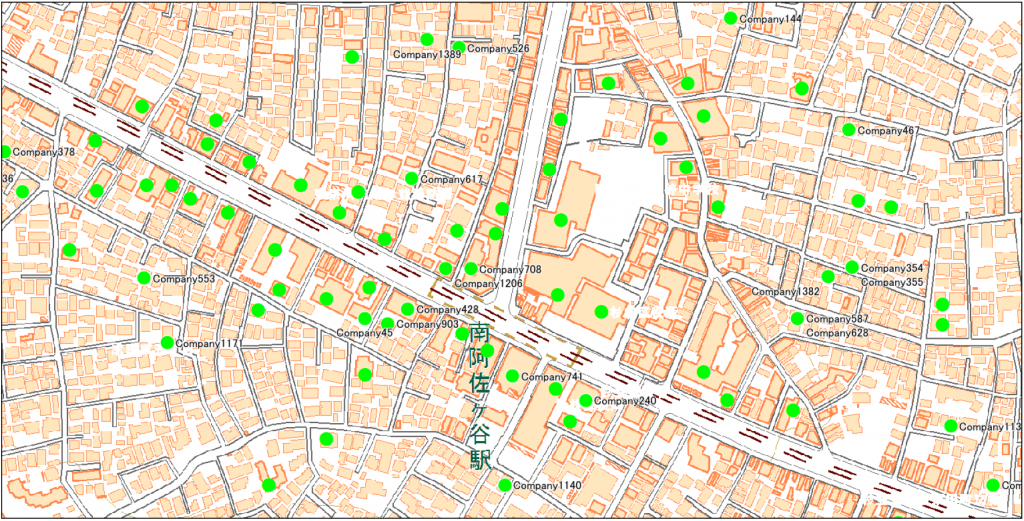
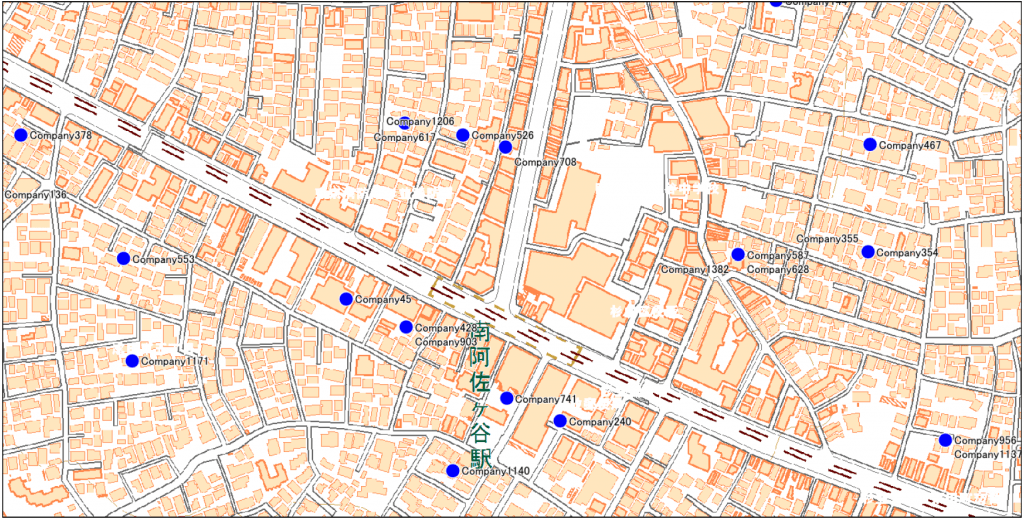
fix

diff --git a/location-passport.html b/location-passport.html
@@ -32,7 +32,7 @@
 					<a href="products.html">製品 / サービス</a>
 				</li>
 				<li class="active">
-					<a href="locatioin-passport.html">Location Passport</a>
+					<a href="location-passport.html">Location Passport</a>
 				</li>
 			</ol>
 			<p class="mar_top40">お手持ちの顧客リストの件数はどのくらいありますか？<br>10件や20件なら、地理情報システム（GIS）で地図上に一つずつ登録して活用することも難しくないでしょう。<br>でも、1000件ならどうでしょうか？<br>ちょっとした顧客データなら、100万件を超えることもざらです。<br>こんな時は、手持ちリストの住所の文字列から自動的に緯度経度を対応させ、GISで活用可能な位置情報に加工する「ジオコーディング」が便利です。<br>「Location Passport」を活用すれば、従来は専門的な知識が必要でなんとなく難しいと敬遠していたジオコーディング処理が、手軽にパソコン上で実現できます</p>
@@ -60,11 +60,11 @@
 
 			<h4 class="mar_top40">高精度住所辞書でジオコーディングした例</h4>
 			<p>おおむね建物に対応したピンポイントのジオコーディングが可能です。</p>
-			<img src="inc/img/products/jusho_1.png" alt="高精度住所辞書" width="800" />
+			<img src="inc/img/products/jusho_1.png" alt="標準住所辞書" width="800" />
 
 			<h4 class="mar_top40">標準辞書でジオコーディングした例</h4>
 			<p>街区の代表点にジオコーディングされますので、同一街区のポイントは重なって表示されます。</p>
-			<img src="inc/img/products/jusho_2.png" alt="標準住所辞書" width="800" />
+			<img src="inc/img/products/jusho_2.png" alt="高精度住所辞書" width="800" />
 
 			<h4 class="mar_top40">KML形式でエクスポートして利用可能</h4>
 			<p>ジオコーディング結果はKML形式で保存可能です。<br>専用のGISアプリがなくても、Google Earthで結果を確認することができます。</p>

diff --git a/index.html b/index.html
@@ -111,10 +111,10 @@
 					<a href="miraishoken.html">
 						<div class="product-block">
 							<div class="block-title">
-								<h3>未来商圏</h3>
+								<h3>未来商圏レポート</h3>
 							</div>
 							<hr />
-							<p>変化の激しい都市の実情を反映した商圏レポートのため、ビジネスチャンスを逃さず、最適のタイミングでのビジネス展開が実現します。</p>
+							<p>将来推計人口に基づいた商圏レポートをオンラインで作成するサービスです。手軽に未来の立地評価レポートが入手できます。</p>
 						</div>
 						<div class="product-button">
 							<span>詳しくみる</span>
@@ -130,6 +130,15 @@
 				<h2 class="eng-title news">NEWS RELEASE</h2>
 			</div>
 			<ul class="news-area">
+				<li class="news-item">
+					<div class="date">2019.01.24</div>
+					<div class="content">
+						<a href="javascript:;">
+							<span>将来の商圏分析を高精度に実現できる人口統計データ 「未来統計」2019年版を1月24日より販売開始</span>
+							<i class="fa fa-angle-right fa-fw"></i>
+						</a>
+					</div>
+				</li>
 				<li class="news-item">
 					<div class="date">2018.06.05</div>
 					<div class="content">

diff --git a/act-terms.html b/act-terms.html
@@ -100,14 +100,14 @@
 			</ol>
 
 			<h4 class="terms-title">第10条（有効期間）</h4>
-			<p class="pad_lt20">本規約の有効期間は、未来統計契約期間中とします。</p>
+			<p class="pad_lt20">本規約の有効期間は、未来商圏レポート契約期間中とします。</p>
 
 			<h4 class="terms-title">第11条（協議）</h4>
 			<p class="pad_lt20">本規約に定めのない事項または本規約もしくは利用契約の履行の解釈もしくは履行にいて疑義を生じた場合には、サービス利用者とチリビジとACTは誠意をもって協議し解決を図るものとします。</p>
 
 			<h4 class="terms-title">第12条（管轄裁判所）</h4>
 			<p class="pad_lt20">本規約に関する訴訟については、東京地方裁判所を第一審の合意管轄裁判所とします。</p>
-			<p class="pad_lt20">［付則］この利用規約は2016年1月1日より効力を発するものとします。</p>
+			<p class="pad_lt20">［付則］この利用規約は2019年3月1日より効力を発するものとします。</p>
 
 		</div>
 

diff --git a/inc/js/base.js b/inc/js/base.js
@@ -31,7 +31,7 @@ function menuHighlight(){
 	var menuList=document.querySelectorAll('nav li');
 	if(nowPath==='' || nowPath==='index.html'){
 		menuList[0].classList.add('active');
-	}else if(nowPath==='products.html' || nowPath==='miraitoukei.html' || nowPath==='asahiru.html' || nowPath==='dogadehazard.html' || nowPath==='locatioin-passport.html' || nowPath==='roadinfo.html' || nowPath.indexOf('miraishoken')===0 || nowPath==='act-terms.html' || nowPath==='privacy-policy.html'){
+	}else if(nowPath==='products.html' || nowPath==='miraitoukei.html' || nowPath==='asahiru.html' || nowPath==='dogadehazard.html' || nowPath==='location-passport.html' || nowPath==='roadinfo.html' || nowPath.indexOf('miraishoken')===0 || nowPath==='act-terms.html' || nowPath==='privacy-policy.html'){
 		menuList[1].classList.add('active');
 	}else if(nowPath==='company.html' || nowPath==='outline.html' || nowPath==='message.html' || nowPath==='books.html'){
 		menuList[2].classList.add('active');

diff --git a/products.html b/products.html
@@ -97,13 +97,13 @@
 			<div class="gray no-mb">
 				<div class="section">
 					<div class="section-title">
-						<a href="locatioin-passport.html">
+						<a href="location-passport.html">
 							<h2>Location Passport</h2>
 						</a>
 					</div>
 					<p class="mar_top20">住所を自動処理して緯度経度を付与する「ジオコーディング」を実現するツールです。<br>「Location Passport」を活用すれば、従来は専門的な知識が必要でなんとなく難しいと敬遠していたジオコーディング処理が、手軽にパソコン上で実現できます。</p>
 					<div class="right-button">
-						<a href="locatioin-passport.html" class="blue-button">詳しくみる</a>
+						<a href="location-passport.html" class="blue-button">詳しくみる</a>
 					</div>
 				</div>
 				<div class="section">

diff --git a/terms.html b/terms.html
@@ -145,7 +145,7 @@
 			<h4 class="terms-title">第11条【管轄裁判所】</h4>
 			<ol>
 				<li>本規約に関し、訴訟の必要が生じた場合には、東京地方裁判所をもって第一審の合意管轄裁判所とします。</li>
-				<li>本規約の成立、効力、及び解釈に関しては、日本国法が適用されるものとします。<br>（附則）<br>本規約は、2016年1月1日より施行致します。</li>
+				<li>本規約の成立、効力、及び解釈に関しては、日本国法が適用されるものとします。<br>（附則）<br>本規約は、2019年3月1日より施行致します。</li>
 			</ol>
 		</div>
 

diff --git a/footer.html b/footer.html
@@ -18,7 +18,7 @@
 					<a href="miraishoken.html">未来商圏</a>
 				</li>
 				<li>
-					<a href="locatioin-passport.html">Location Passport</a>
+					<a href="location-passport.html">Location Passport</a>
 				</li>
 				<li>
 					<a href="roadinfo.html">道路開通情報提供サービス</a>

diff --git a/sitemap.html b/sitemap.html
@@ -139,7 +139,7 @@
 							</ul>
 						</li>
 						<li>
-							<a href="locatioin-passport.html">
+							<a href="location-passport.html">
 								<i class="fa fa-caret-right fa-fw"></i>
 								<span>Location Passport</span>
 							</a>
